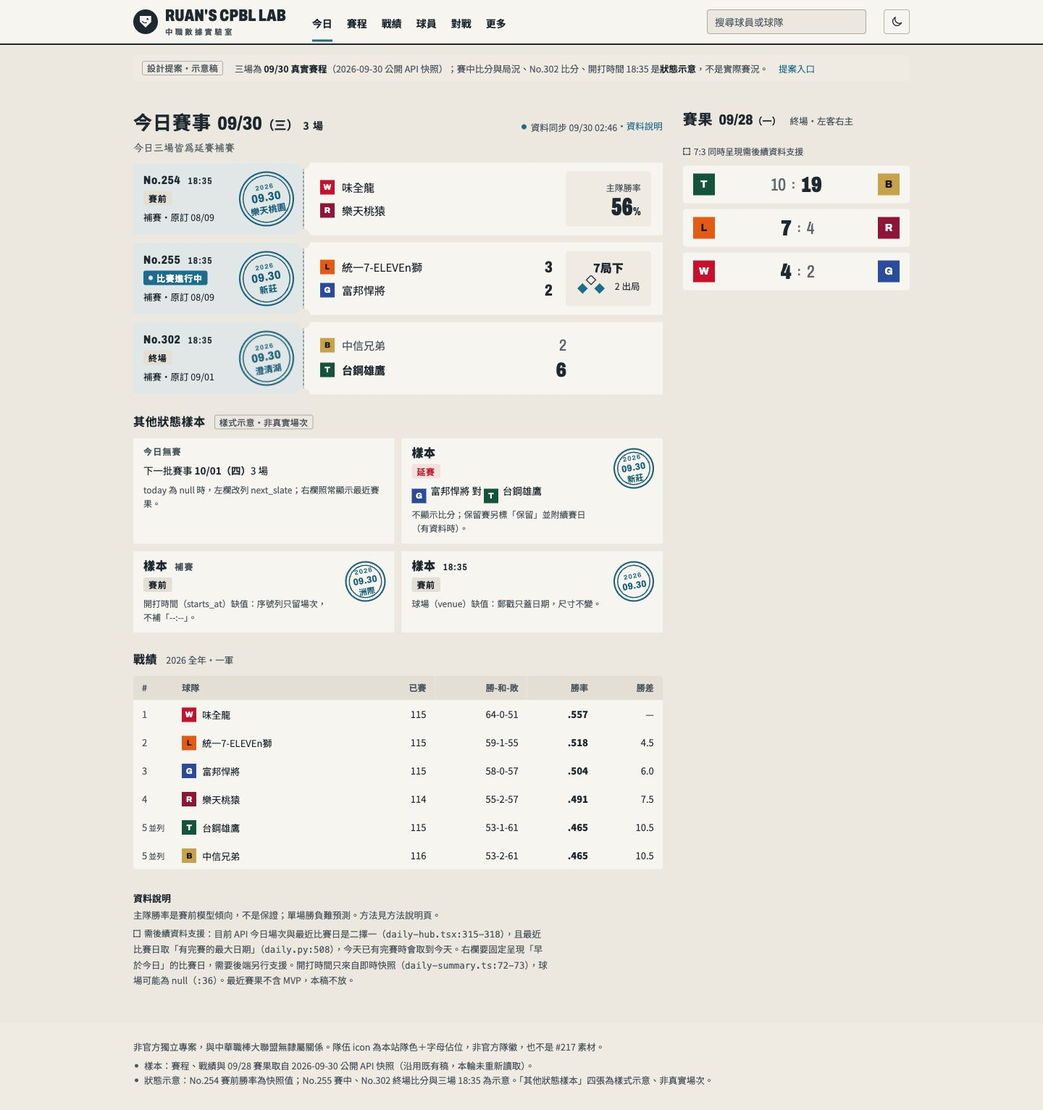
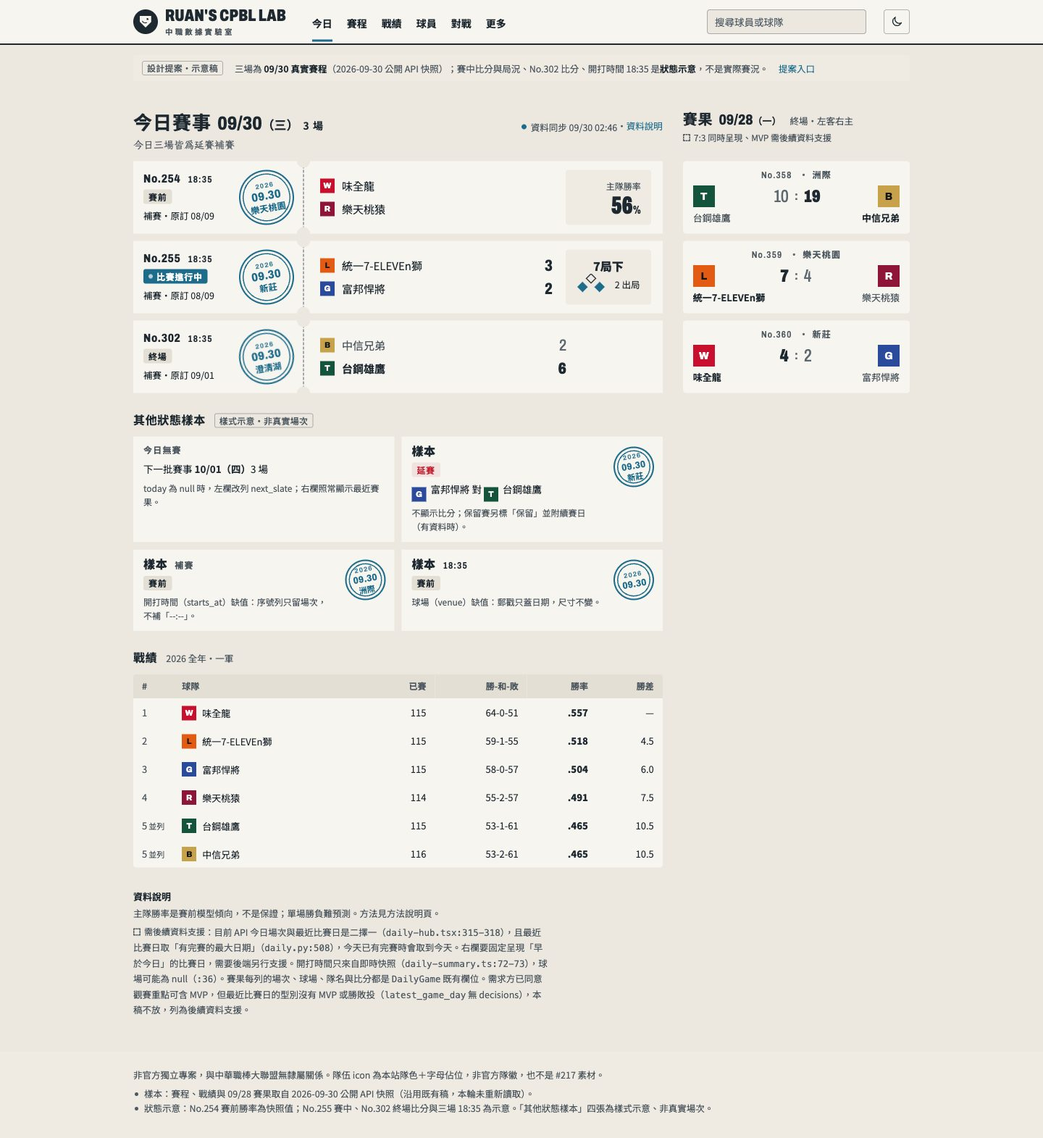
docs: align #218 home result rows and bold-only winning scores
需求方人工審核退回後的局部修訂：勝方比分只加粗不放大（共用 .score 與首頁今日票券）；
首頁桌機 7:3 左右兩欄共用 subgrid 列軌，讓每張今日票券與每筆賽果頂底逐列對齊；
賽果每列補場次、球場與兩隊隊名（DailyGame 既有欄位），MVP 無來源不放並標後續資料支援；
移除今日票券的裝飾淡藍票根底，郵戳墨色回到基準石油藍。更新受影響的首頁與元件表證據。

diff --git a/design/brand-218/proposal/home.html b/design/brand-218/proposal/home.html
@@ -10,28 +10,35 @@
 <link rel="stylesheet" href="postmark.css">
 <style>
   /* 7:3：左＝今日全部場次（含已完賽）；右＝早於今日、最近一個有完賽紀錄的比賽日。手機上下排。 */
-  .split { display: grid; grid-template-columns: minmax(0, 7fr) minmax(0, 3fr); grid-template-areas: "hl hr" "tl tr" "xl ." "sl ."; column-gap: 28px; align-items: start; }
-  .split > .hl { grid-area: hl; } .split > .hr { grid-area: hr; }
-  .split > .today { grid-area: tl; } .split > .res { grid-area: tr; }
-  .split > .states { grid-area: xl; } .split > .stand { grid-area: sl; }
+  /* 逐列對齊：左右兩欄共用同一組列軌（subgrid），第 n 張今日票券與第 n 筆賽果頂底自然對齊。
+     兩側是不同日期、不同場次，只共用格線；各自的列數 --n 依實際場次數，少的一側留空、不補場次。 */
+  .split { display: grid; grid-template-columns: minmax(0, 7fr) minmax(0, 3fr); column-gap: 28px; row-gap: 10px; align-items: start; }
+  .split > .hl { grid-column: 1; grid-row: 1; } .split > .hr { grid-column: 2; grid-row: 1; }
+  .split > .today { grid-column: 1; } .split > .res { grid-column: 2; }
+  .split > .today, .split > .res { grid-row: 2 / span var(--n, 1); display: grid; grid-template-rows: subgrid; align-self: stretch; }
+  .split .rows, .split .rlist { grid-row: 1 / -1; display: grid; grid-template-rows: subgrid; }
+  .split > .sh { margin-bottom: 2px; }
   .sh .count-n { font: 700 14px var(--tc); color: var(--ink); margin-left: 6px; }
-  .today > .hand { margin: -4px 0 10px; font-size: 14px; color: var(--muted); }
+  .sh .hand, .sh .dep { flex-basis: 100%; margin: 0; }
+  .sh .hand { font-size: 14px; color: var(--muted); }
+  .below { display: grid; grid-template-columns: minmax(0, 7fr) minmax(0, 3fr); column-gap: 28px; }
+  .below > section { grid-column: 1; }
 
   /* 今日票券（直角）：票根＝序號列＋狀態＋郵戳；本體＝兩隊（上客下主）＋右格 */
-  .rows { display: grid; gap: 10px; }
   .grow { position: relative; display: grid; grid-template-columns: 236px minmax(0, 1fr); background: var(--card); transition: background-color .15s var(--ease); }
   .grow:hover { background: var(--card-2); }
-  .grow .stub { position: relative; display: grid; align-content: center; justify-items: start; gap: 6px; padding: 12px 100px 12px 14px; background: var(--stub); border-right: 2px dashed var(--perf); min-height: 100px; }
+  .grow .stub { position: relative; display: grid; align-content: center; justify-items: start; gap: 6px; padding: 12px 100px 12px 14px; border-right: 2px dashed var(--perf); min-height: 100px; }
   .grow .stub::before, .grow .stub::after { content: ""; position: absolute; right: -10px; width: 18px; height: 18px; border-radius: 50%; background: var(--paper); }
   .grow .stub::before { top: -9px; } .grow .stub::after { bottom: -9px; }
   .grow .stub .rs { font-size: 12.5px; color: var(--ink); white-space: nowrap; }
-  .grow .post { --pb: var(--stub); right: 12px; top: calc(50% - var(--ps) / 2); }
+  .grow .post { --pb: var(--card); right: 12px; top: calc(50% - var(--ps) / 2); }
+  .grow:hover .post { --pb: var(--card-2); }
   .grow .body { display: grid; grid-template-columns: minmax(0, 1fr) auto; column-gap: 18px; align-items: center; padding: 12px 16px 12px 22px; }
   .g-teams { display: grid; gap: 8px; font-size: 15px; max-width: 340px; }
   .g-teams .tm { display: grid; grid-template-columns: auto minmax(0, 1fr) 2.2em; align-items: center; gap: 10px; white-space: nowrap; color: var(--muted); }
   .g-teams .tm .nm { overflow: hidden; text-overflow: ellipsis; }
   .g-teams .n { font: 500 22px/1 var(--wide); font-stretch: 75%; text-align: right; color: var(--faint); }
-  .g-teams .tm.w { color: var(--ink); font-weight: 700; } .g-teams .tm.w .n { color: var(--ink); font-weight: 900; font-size: 28px; }
+  .g-teams .tm.w { color: var(--ink); font-weight: 700; } .g-teams .tm.w .n { color: var(--ink); font-weight: 900; }
   .pre .g-teams .tm, .live .g-teams .tm { color: var(--ink); }
   .live .g-teams .n { color: var(--ink); font-weight: 800; }
   .aside { align-self: stretch; display: grid; align-content: center; justify-items: end; gap: 2px; background: var(--card-2); padding: 8px 14px; border-radius: var(--r-panel); min-width: 118px; }
@@ -51,15 +58,12 @@
   .xrow .why { font-size: 12px; color: var(--muted); }
   .xrow.empty { padding-right: 14px; }
 
-  /* 賽果：比分元件；隊名只在容器夠寬時出現（手機全寬會出現；桌機 3 欄內隱藏，由 aria-label 與 title 承載） */
-  .res .dep { margin: -6px 0 10px; }
-  .rlist { list-style: none; margin: 0; padding: 0; display: grid; gap: 8px; }
-  .rlist li { container-type: inline-size; }
-  .rlist a { display: block; padding: 11px 14px; background: var(--card); color: inherit; text-decoration: none; border-radius: var(--r-panel); transition: background-color .15s var(--ease); }
+  /* 賽果：序號列（場次・球場）＋比分元件兩層式（隊名貼在自己的 icon 下）。資料皆為 DailyGame 既有欄位。 */
+  .rlist { list-style: none; margin: 0; padding: 0; }
+  .rlist li { display: grid; }
+  .rlist a { display: grid; align-content: center; gap: 6px; padding: 10px 14px; background: var(--card); color: inherit; text-decoration: none; border-radius: var(--r-panel); transition: background-color .15s var(--ease); }
   .rlist a:hover { background: var(--card-2); }
-  .rlist .score .nm { display: none; }
-  @container (min-width: 360px) { .rlist .score .nm { display: block; } }
-  .res > .hand { margin: 10px 0 0; font-size: 14px; color: var(--muted); }
+  .rlist .serial { justify-content: center; }
 
   .tscroll { overflow-x: auto; border-radius: var(--r-panel); }
   .stand td.rk { color: var(--muted); width: 2.5em; }
@@ -69,7 +73,10 @@
   .notes p { margin: 0 0 6px; }
 
   @media (max-width: 860px) {
-    .split { grid-template-columns: minmax(0, 1fr); grid-template-areas: "hl" "tl" "hr" "tr" "xl" "sl"; }
+    .split, .split > .today, .split > .res { display: block; }
+    .split .rows, .split .rlist { display: grid; grid-template-rows: none; gap: 10px; }
+    .split > .hr { margin-top: 28px; }
+    .below { grid-template-columns: minmax(0, 1fr); }
     .xrows { grid-template-columns: minmax(0, 1fr); }
   }
   @media (max-width: 560px) {
@@ -98,11 +105,11 @@
     <div class="sh hl">
       <h1>今日賽事<span class="d">09/30<small>（三）</small></span><span class="count-n">3 場</span></h1>
       <span class="meta"><span class="fresh">資料同步 09/30 02:46</span>・<a href="#notes">資料說明</a></span>
+      <p class="hand">今日三場皆為延賽補賽</p>
     </div>
 
-    <section class="today" aria-labelledby="today-h">
+    <section class="today" aria-labelledby="today-h" style="--n: 3">
       <h2 class="sr" id="today-h">今日場次，每張票上客下主</h2>
-      <p class="hand">今日三場皆為延賽補賽</p>
       <div class="rows">
         <article class="grow pre" aria-label="No.254 賽前（示意）：味全龍（客）對樂天桃猿（主），2026 年 9 月 30 日樂天桃園，18:35 開打（示意）；延賽補賽，原訂 08/09；主隊勝率 56%">
           <div class="stub">
@@ -153,23 +160,27 @@
       </div>
     </section>
 
-    <div class="sh hr"><h2>賽果<span class="d">09/28<small>（一）</small></span></h2><span class="cue">終場・左客右主</span></div>
-    <section class="res" aria-labelledby="res-h">
+    <div class="sh hr"><h2>賽果<span class="d">09/28<small>（一）</small></span></h2><span class="cue">終場・左客右主</span><p class="dep">7:3 同時呈現、MVP 需後續資料支援</p></div>
+    <section class="res" aria-labelledby="res-h" style="--n: 3">
       <h3 class="sr" id="res-h">09/28 賽果，左客右主</h3>
-      <p class="dep">7:3 同時呈現需後續資料支援</p>
       <ol class="rlist">
         <li><a href="live.html" aria-label="No.358 洲際，終場：台鋼雄鷹（客）10 比 19 中信兄弟（主），中信兄弟勝。開啟單場賽況">
-          <span class="score" aria-hidden="true"><span class="ti a" style="--team:#15543C" title="台鋼雄鷹">T</span><span class="nm a">台鋼雄鷹</span><span class="n a">10</span><span class="colon">:</span><span class="n h w">19</span><span class="nm h w">中信兄弟</span><span class="ti h warm" style="--team:#C8A24A" title="中信兄弟">B</span></span>
+          <span class="serial" aria-hidden="true"><span>No.358</span><span>洲際</span></span>
+          <span class="score stack" aria-hidden="true"><span class="ti a" style="--team:#15543C">T</span><span class="n a">10</span><span class="colon">:</span><span class="n h w">19</span><span class="ti h warm" style="--team:#C8A24A">B</span><span class="nm a">台鋼雄鷹</span><span class="nm h w">中信兄弟</span></span>
         </a></li>
         <li><a href="#" aria-label="No.359 樂天桃園，終場：統一7-ELEVEn獅（客）7 比 4 樂天桃猿（主），統一7-ELEVEn獅勝">
-          <span class="score" aria-hidden="true"><span class="ti a warm" style="--team:#E35A13" title="統一7-ELEVEn獅">L</span><span class="nm a w">統一獅</span><span class="n a w">7</span><span class="colon">:</span><span class="n h">4</span><span class="nm h">樂天桃猿</span><span class="ti h" style="--team:#8E1537" title="樂天桃猿">R</span></span>
+          <span class="serial" aria-hidden="true"><span>No.359</span><span>樂天桃園</span></span>
+          <span class="score stack" aria-hidden="true"><span class="ti a warm" style="--team:#E35A13">L</span><span class="n a w">7</span><span class="colon">:</span><span class="n h">4</span><span class="ti h" style="--team:#8E1537">R</span><span class="nm a w">統一7-ELEVEn獅</span><span class="nm h">樂天桃猿</span></span>
         </a></li>
         <li><a href="#" aria-label="No.360 新莊，終場：味全龍（客）4 比 2 富邦悍將（主），味全龍勝">
-          <span class="score" aria-hidden="true"><span class="ti a" style="--team:#C8102E" title="味全龍">W</span><span class="nm a w">味全龍</span><span class="n a w">4</span><span class="colon">:</span><span class="n h">2</span><span class="nm h">富邦悍將</span><span class="ti h" style="--team:#2A4B9B" title="富邦悍將">G</span></span>
+          <span class="serial" aria-hidden="true"><span>No.360</span><span>新莊</span></span>
+          <span class="score stack" aria-hidden="true"><span class="ti a" style="--team:#C8102E">W</span><span class="n a w">4</span><span class="colon">:</span><span class="n h">2</span><span class="ti h" style="--team:#2A4B9B">G</span><span class="nm a w">味全龍</span><span class="nm h">富邦悍將</span></span>
         </a></li>
       </ol>
     </section>
+  </div>
 
+  <div class="below">
     <section class="states" aria-labelledby="x-h">
       <div class="sh s"><h2 id="x-h">其他狀態樣本</h2><span class="st sample">樣式示意・非真實場次</span></div>
       <div class="xrows">
@@ -219,7 +230,7 @@
   <section class="notes" id="notes" aria-labelledby="notes-h">
     <h2 id="notes-h">資料說明</h2>
     <p>主隊勝率是賽前模型傾向，不是保證；單場勝負難預測。方法見方法說明頁。</p>
-    <p><span class="dep">需後續資料支援</span>：目前 API 今日場次與最近比賽日是二擇一（<code>daily-hub.tsx:315-318</code>），且最近比賽日取「有完賽的最大日期」（<code>daily.py:508</code>），今天已有完賽時會取到今天。右欄要固定呈現「早於今日」的比賽日，需要後端另行支援。開打時間只來自即時快照（<code>daily-summary.ts:72-73</code>），球場可能為 null（<code>:36</code>）。最近賽果不含 MVP，本稿不放。</p>
+    <p><span class="dep">需後續資料支援</span>：目前 API 今日場次與最近比賽日是二擇一（<code>daily-hub.tsx:315-318</code>），且最近比賽日取「有完賽的最大日期」（<code>daily.py:508</code>），今天已有完賽時會取到今天。右欄要固定呈現「早於今日」的比賽日，需要後端另行支援。開打時間只來自即時快照（<code>daily-summary.ts:72-73</code>），球場可能為 null（<code>:36</code>）。賽果每列的場次、球場、隊名與比分都是 <code>DailyGame</code> 既有欄位。需求方已同意觀賽重點可含 MVP，但最近比賽日的型別沒有 MVP 或勝敗投（<code>latest_game_day</code> 無 decisions），本稿不放，列為後續資料支援。</p>
   </section>
 </main>
 <footer class="footer"><div class="wrap">非官方獨立專案，與中華職棒大聯盟無隸屬關係。隊伍 icon 為本站隊色＋字母佔位，非官方隊徽，也不是 #217 素材。

diff --git a/design/brand-218/proposal/components.html b/design/brand-218/proposal/components.html
@@ -118,7 +118,7 @@
   </section>
 
   <section class="row" id="status">
-    <div class="rule"><h2>狀態章與身分標籤</h2><p><b>狀態章</b>＝比賽狀態，粗體、必含文字；只有「進行中」用石油藍實底，延賽／保留用紅字。<b>身分標籤</b>＝選手身分與分類，細字淡底，不與狀態章混用。</p><p><b>依賴標記</b>（斜紋小方塊）＝這個呈現需要後續資料支援。</p></div>
+    <div class="rule"><h2>狀態章與身分標籤</h2><p><b>狀態章</b>＝比賽狀態，粗體、必含文字；只有「進行中」用石油藍實底，延賽／保留用紅字。<b>身分標籤</b>＝選手身分與分類，細字淡底，不與狀態章混用。</p><p><b>依賴標記</b>（虛線小方塊）＝這個呈現需要後續資料支援。</p></div>
     <div class="demo">
       <span class="st">賽前</span><span class="st live is-updating">比賽進行中</span><span class="st">終場</span><span class="st hold">延賽</span><span class="st hold">保留</span>
       <span class="tag">一軍選手</span><span class="tag">強打型</span><span class="tag">總冠軍 ×2</span>
@@ -127,9 +127,9 @@
   </section>
 
   <section class="row" id="score">
-    <div class="rule"><h2>比分</h2><p>全站<b>一個元件</b>：icon 分數 : 分數 icon，左客右主。勝方粗黑、大一階；敗方細、淡。不只靠顏色：字重與字級同時變。</p><p>「終場」「左客右主」由區塊標題說一次；逐列不加終／勝／主客。隊名只在寬度夠時出現（≥360px），窄欄靠 icon＋aria-label。和局兩側同重。</p></div>
+    <div class="rule"><h2>比分</h2><p>全站<b>一個元件</b>：icon 分數 : 分數 icon，左客右主。勝方<b>只加粗</b>（墨色 900），敗方細、淡；兩側同字級，基線與格線不動。不只靠顏色：字重同時變。</p><p>「終場」「左客右主」由區塊標題說一次；逐列不加終／勝／主客。窄欄用兩層式：隊名貼在自己的 icon 下，分數與冒號欄寬固定，多列沿同一條隱形格線對齊。和局兩側同重。</p></div>
     <div class="demo">
-      <figure><div class="scorebox" aria-label="台鋼雄鷹 10 比 19 中信兄弟，中信兄弟勝"><span class="score" aria-hidden="true"><span class="ti a" style="--team:#15543C">T</span><span class="n a">10</span><span class="colon">:</span><span class="n h w">19</span><span class="ti h warm" style="--team:#C8A24A">B</span></span></div><figcaption class="cap">窄欄（首頁右欄 3fr）</figcaption></figure>
+      <figure><div class="scorebox" aria-label="台鋼雄鷹 10 比 19 中信兄弟，中信兄弟勝"><span class="score stack" aria-hidden="true"><span class="ti a" style="--team:#15543C">T</span><span class="n a">10</span><span class="colon">:</span><span class="n h w">19</span><span class="ti h warm" style="--team:#C8A24A">B</span><span class="nm a">台鋼雄鷹</span><span class="nm h w">中信兄弟</span></span></div><figcaption class="cap">窄欄兩層式（首頁右欄 3fr）</figcaption></figure>
       <figure><div class="scorebox wide" aria-label="台鋼雄鷹 10 比 19 中信兄弟，中信兄弟勝"><span class="score" aria-hidden="true"><span class="ti a" style="--team:#15543C">T</span><span class="nm a">台鋼雄鷹</span><span class="n a">10</span><span class="colon">:</span><span class="n h w">19</span><span class="nm h w">中信兄弟</span><span class="ti h warm" style="--team:#C8A24A">B</span></span></div><figcaption class="cap">寬欄（手機全寬、賽程）</figcaption></figure>
       <figure><div class="scorebox" aria-label="和局示意 3 比 3"><span class="score tie" aria-hidden="true"><span class="ti a" style="--team:#2A4B9B">G</span><span class="n a">3</span><span class="colon">:</span><span class="n h">3</span><span class="ti h" style="--team:#8E1537">R</span></span></div><figcaption class="cap">和局（樣式示意）</figcaption></figure>
     </div>
@@ -199,7 +199,7 @@
         <tr><td>圖表標記 ★ ◆ ●</td><td>擊球落點、逐球、球隊近況</td><td>保留</td><td>是資料標記不是裝飾；在圖內改用 SVG 形狀並附圖例。</td></tr>
         <tr><td>旅外 ✈</td><td>選手頁首 <code>hero.tsx:207</code></td><td>移除</td><td>改成身分標籤「旅外」。</td></tr>
         <tr><td>隊伍 logo</td><td>TeamLogo</td><td>待 #217</td><td>本提案一律用隊色＋字母佔位。</td></tr>
-        <tr><td>資訊底版</td><td>—</td><td>採用</td><td>卡面、淺色塊、帶狀表頭取代框線；票根色塊只給賽事票券。</td></tr>
+        <tr><td>資訊底版</td><td>—</td><td>採用</td><td>卡面、淺色塊、帶狀表頭取代框線；票券不鋪裝飾底色，只用撕線與郵戳分區。</td></tr>
         <tr><td>少量圖形</td><td>—</td><td>採用</td><td>郵戳、撕線票根、手札註記（每區最多一句客觀敘述）；不加照片。</td></tr>
       </tbody>
     </table>
@@ -209,7 +209,7 @@
   <div class="sh" style="margin-top:34px"><h2>其餘頁型局部示意</h2><span class="st sample">局部示意</span></div>
 
   <section class="row" id="schedule">
-    <div class="rule"><h2>賽程</h2><p>月曆格用同一比分元件縮小版；延賽用狀態章不用 ☔；今天那格用票根色塊。一格三場也能掃讀。</p></div>
+    <div class="rule"><h2>賽程</h2><p>月曆格用同一比分元件縮小版；延賽用狀態章不用 ☔；今天那格用淺石油藍色塊標示「今天」（有資訊意義；票券本身不再用這個底色）。一格三場也能掃讀。</p></div>
     <div class="sketch">
       <div class="cal">
         <div class="day"><div class="dt">09/28<small>週一</small></div>

diff --git a/design/brand-218/proposal/postmark.css b/design/brand-218/proposal/postmark.css
@@ -6,8 +6,9 @@
   --paper: #ece8e0; --card: #f7f5f0; --card-2: #efebe3; --band: #e4dfd5;
   --ink: #1e2830; --muted: #4f5961; --faint: #5d6770;
   --mark: #1e6c8c; --mark-ink: #ffffff; --mark-soft: rgba(30, 108, 140, .10);
-  /* 郵戳墨：比 --mark 深一階，讓郵戳小字在票根色塊上 ≥4.5:1（基準 #1e6c8c 在票根上只有 4.45:1） */
-  --stamp: #1a5f7c; --stub: #e1e7e6;
+  /* 郵戳墨＝基準石油藍。票券不再鋪淺藍票根底（需求方 10/01：裝飾色塊會壓低底版與狀態章辨識），
+     郵戳直接落在卡面上：5.39:1，滑過時的 --card-2 上 5.0:1。--stub 只留給賽程「今天」那一格。 */
+  --stamp: #1e6c8c; --stub: #e1e7e6;
   --up: #1d5fb0; --down: #c21f32;
   --rule: rgba(30, 40, 48, .14); --rule-2: rgba(30, 40, 48, .32); --perf: rgba(30, 40, 48, .38);
   --wide: "Archivo", "Noto Sans TC", sans-serif;
@@ -126,21 +127,23 @@ a:focus-visible, button:focus-visible, [role="tab"]:focus-visible, input:focus-v
 .big { font: 900 42px/.9 var(--wide); font-stretch: 62%; }
 .block { background: var(--card); padding: 16px 18px; border-radius: var(--r-panel); }
 
-/* ── 比分（全站唯一一個元件）：icon 分數 : 分數 icon。勝方＝粗黑大字；敗方＝細、淡、小一階。
+/* ── 比分（全站唯一一個元件）：icon 分數 : 分數 icon。勝方＝粗黑；敗方＝細、淡。兩側同字級，基線與格線不動。
    「終場／客主」由所在區塊標題說一次（元件級），完整句子寫在 aria-label；隊名只在寬度允許時出現 ── */
 .score { display: grid; grid-template-columns: auto minmax(0, 1fr) auto auto auto minmax(0, 1fr) auto; align-items: center; column-gap: 8px; }
 .score .ti { --s: 30px; font-size: 14px; }
 .score .n { font: 500 24px/1 var(--wide); font-stretch: 72%; color: var(--faint); min-width: 1.3em; }
 .score .n.a { text-align: right; grid-column: 3; } .score .n.h { text-align: left; grid-column: 5; }
-.score .n.w { font-weight: 900; font-size: 30px; color: var(--ink); }
+.score .n.w { font-weight: 900; color: var(--ink); }
 .score .colon { grid-column: 4; font: 700 16px/1 var(--wide); color: var(--faint); }
 .score .nm { font-size: 13px; color: var(--muted); white-space: nowrap; overflow: hidden; text-overflow: ellipsis; }
 .score .nm.a { grid-column: 2; } .score .nm.h { grid-column: 6; text-align: right; }
 .score .nm.w { color: var(--ink); font-weight: 700; }
 .score .ti.a { grid-column: 1; } .score .ti.h { grid-column: 7; }
-.score.tie .n, .score.tie .nm { color: var(--ink); font-weight: 700; font-size: 24px; }
-.score.tie .nm { font-size: 13px; }
-.score.lose-dim .ti.l { opacity: .55; }
+.score.tie .n, .score.tie .nm { color: var(--ink); font-weight: 700; }
+/* 兩層式（窄欄）：第一層 icon 分數 : 分數 icon；第二層隊名貼在自己的 icon 下。分數與冒號欄寬固定，多列時沿同一條隱形格線對齊 */
+.score.stack { grid-template-columns: auto minmax(0, 1fr) 34px auto 34px minmax(0, 1fr) auto; row-gap: 4px; }
+.score.stack .nm { grid-row: 2; }
+.score.stack .nm.a { grid-column: 1 / 4; text-align: left; } .score.stack .nm.h { grid-column: 5 / 8; text-align: right; }
 
 /* ── 資料表：表頭色塊帶＋欄位對齊＋留白；不畫列間線、不疊雙線 ── */
 table.data { border-collapse: separate; border-spacing: 0; width: 100%; background: var(--card); font-size: 13px; border-radius: var(--r-panel); overflow: hidden; }

diff --git a/design/brand-218/proposal/index.html b/design/brand-218/proposal/index.html
@@ -58,9 +58,17 @@
   <section class="memo" aria-labelledby="memo-h">
     <div class="sh s"><h2 id="memo-h">取捨短註</h2></div>
 
+    <h3>2026-10-01 修訂（需求方人工審核退回後）</h3>
+    <ol>
+      <li>比分：勝方只加粗，不再放大；兩側同字級、同一條基線。共用 <code>.score</code> 與首頁今日票券一併改。</li>
+      <li>首頁桌機 7:3：左右兩欄共用同一組列軌，第 n 張今日票券與第 n 筆賽果頂底對齊；兩側仍各有日期標題，不是同一場。場數不同時少的一側留空，不補場次。手機照舊上下排。</li>
+      <li>賽果每列補上場次、球場與兩隊隊名（皆為既有欄位）。MVP 沒有可靠來源（最近比賽日型別無此欄），不放，標為後續資料支援。</li>
+      <li>移除今日票券的淺藍票根底，保留撕線與郵戳，讓底版層次與狀態章清楚。</li>
+    </ol>
+
     <h3>相對 palette.html 1「郵戳」的調整</h3>
     <ol>
-      <li>郵戳墨色在淺色模式由 <code>#1e6c8c</code> 加深為 <code>#1a5f7c</code>，票根色塊混色由 14% 降到 10%：郵戳小字對比 4.45:1 → 5.64:1。代價是戳色比基準略暗。</li>
+      <li>票券的淺藍票根底已移除（需求方 10/01：裝飾色塊讓底版與「賽前」等狀態章不清楚）；保留撕線與郵戳。郵戳墨色因此回到基準 <code>#1e6c8c</code>，落在卡面上 5.39:1。</li>
       <li>郵戳內容回到基準的<b>日期＋球場</b>（上一版 home-c 改成時間＋球場）；開打時間移到序號列，缺值不顯示。郵戳分大 76／中 64／小 52px 三階。</li>
       <li>基準票根的橫向虛線路線未沿用：今日票券要讓兩隊比分上下對齊，橫向路線放不下比分；改為上客下主，由區塊註記說一次。</li>
       <li>手札字體保留，但只寫客觀註記、每區最多一句（基準例句是主觀敘事，與「賽事文字客觀」衝突）。</li>
@@ -90,7 +98,7 @@
     <ul>
       <li>取自先前 2026-09-30 公開 API 快照與正式站檢視的數值沿用既有稿；本輪沒有重新讀取 API、DB、正式站或官網。</li>
       <li>首頁：No.255 賽中、No.302 比分、三場 18:35、「其他狀態樣本」四張為示意。賽況頁是 No.358 的回放示意。選手頁雷達形狀與走勢曲線是示意。</li>
-      <li><span class="dep">需後續資料支援</span>：首頁右欄固定呈現「早於今日」的比賽日（目前二擇一，<code>daily-hub.tsx:318</code>、<code>daily.py:508</code>）；開打時間只來自即時快照；前日 MVP 無資料，不放。</li>
+      <li><span class="dep">需後續資料支援</span>：首頁右欄固定呈現「早於今日」的比賽日（目前二擇一，<code>daily-hub.tsx:318</code>、<code>daily.py:508</code>）；開打時間只來自即時快照；最近賽果的 MVP 沒有資料來源，本稿不放（需求方同意 MVP 可作觀賽重點，待後續資料支援）。</li>
     </ul>
   </section>
 </main>
